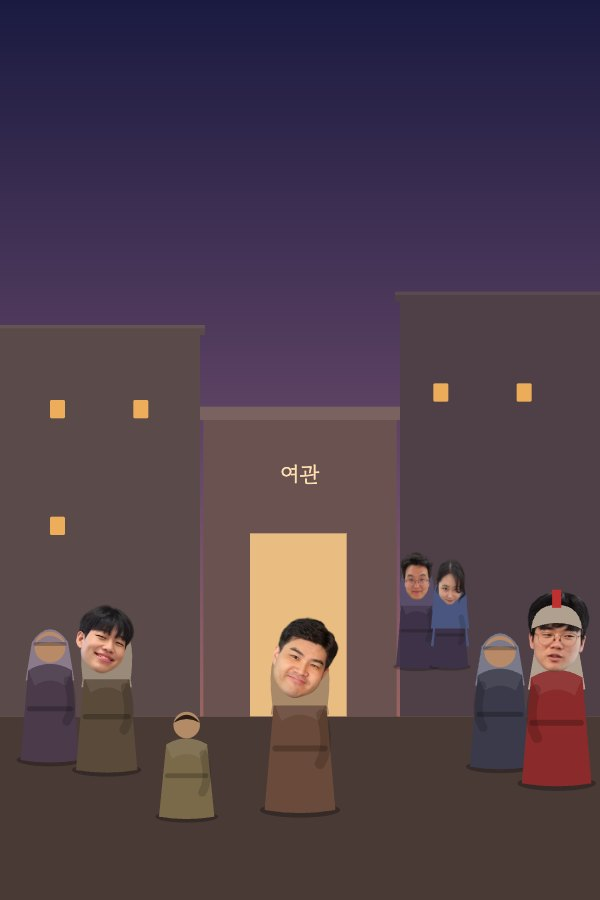
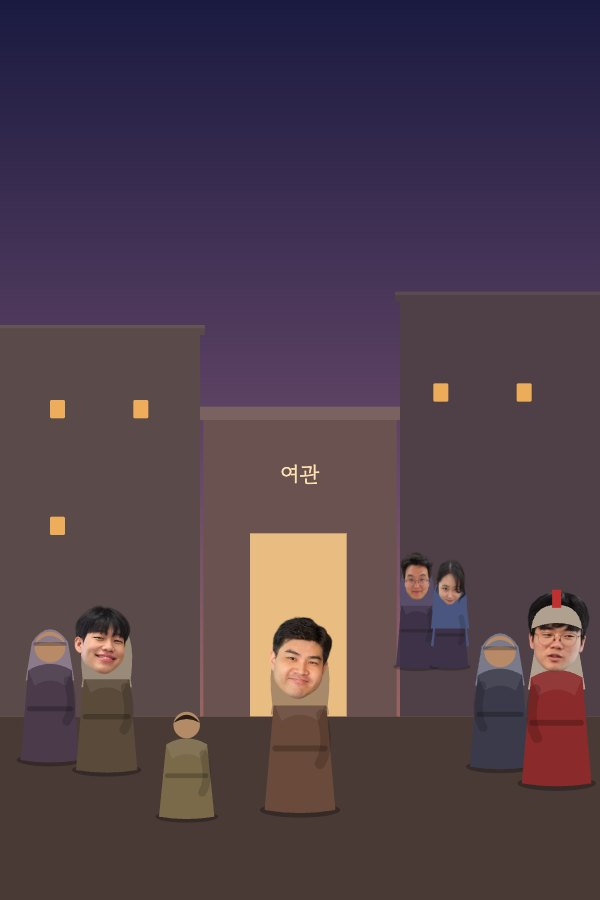
고등부: 김유진 선생님 가브리엘, 얼굴 방향·기울기 맞춤

Changed region(s): [[0.45, 0.6844, 0.57, 0.7778], [0.12, 0.6844, 0.24, 0.7467]]

diff --git a/story/cast.js b/story/cast.js
@@ -1,31 +1,32 @@
 /* 출연 선생님: 얼굴 사진(img/faces/tNN.webp)과 배역
+   gaze: 사진 속 얼굴이 보는 쪽(R 오른쪽, L 왼쪽), rot: 기운 고개를 바로 세우는 각도
    배역을 바꾸려면 아래 CAST에서 선생님 번호(t01~t24)만 바꾸면 됩니다.
    '이웃@2'처럼 @숫자를 붙이면 그 장(章)에서만 그 선생님이 나옵니다. */
 window.FACES = {
-  t01: { name: '성유정', w: 180, h: 246, cx: 103.2, cy: 157.9 },
-  t02: { name: '한주안', w: 154, h: 183, cx: 80.8, cy: 121.2 },
-  t03: { name: '김나연', w: 200, h: 240, cx: 63.6, cy: 144.5 },
-  t04: { name: '김승규', w: 156, h: 179, cx: 75.5, cy: 104.4 },
+  t01: { name: '성유정', w: 180, h: 246, cx: 103.2, cy: 157.9, gaze: 'R' },
+  t02: { name: '한주안', w: 154, h: 183, cx: 80.8, cy: 121.2, gaze: 'R', rot: -11 },
+  t03: { name: '김나연', w: 200, h: 240, cx: 63.6, cy: 144.5, gaze: 'L' },
+  t04: { name: '김승규', w: 156, h: 179, cx: 75.5, cy: 104.4, rot: -14 },
   t05: { name: '김유진', w: 139, h: 192, cx: 68.5, cy: 141.1 },
-  t06: { name: '김재연', w: 150, h: 187, cx: 92.8, cy: 125.0 },
-  t07: { name: '김진원', w: 171, h: 203, cx: 118.4, cy: 136.4 },
-  t08: { name: '김진호', w: 151, h: 186, cx: 63.0, cy: 125.4 },
-  t09: { name: '민다은', w: 198, h: 224, cx: 117.3, cy: 111.7 },
+  t06: { name: '김재연', w: 150, h: 187, cx: 92.8, cy: 125.0, gaze: 'R' },
+  t07: { name: '김진원', w: 171, h: 203, cx: 118.4, cy: 136.4, gaze: 'R', rot: -7 },
+  t08: { name: '김진호', w: 151, h: 186, cx: 63.0, cy: 125.4, rot: -13 },
+  t09: { name: '민다은', w: 198, h: 224, cx: 117.3, cy: 111.7, gaze: 'R' },
   t10: { name: '박예찬', w: 143, h: 194, cx: 74.8, cy: 150.0 },
   t11: { name: '박찬하', w: 133, h: 196, cx: 69.9, cy: 137.5 },
-  t12: { name: '안하영', w: 179, h: 181, cx: 106.7, cy: 105.2 },
+  t12: { name: '안하영', w: 179, h: 181, cx: 106.7, cy: 105.2, rot: -10 },
   t13: { name: '유성욱', w: 136, h: 194, cx: 64.2, cy: 143.4 },
   t14: { name: '윤현종', w: 140, h: 178, cx: 82.7, cy: 121.2 },
   t15: { name: '이경민', w: 138, h: 203, cx: 71.7, cy: 142.2 },
-  t16: { name: '이수영', w: 165, h: 186, cx: 130.9, cy: 108.9 },
+  t16: { name: '이수영', w: 165, h: 186, cx: 130.9, cy: 108.9, gaze: 'R', rot: 19 },
   t17: { name: '이승원', w: 140, h: 218, cx: 70.7, cy: 161.8 },
   t18: { name: '이정관', w: 129, h: 190, cx: 64.6, cy: 134.4 },
   t19: { name: '전관우', w: 124, h: 175, cx: 58.0, cy: 124.4 },
   t20: { name: '정신영', w: 140, h: 207, cx: 66.4, cy: 165.2 },
-  t21: { name: '조형준', w: 157, h: 179, cx: 59.4, cy: 106.3 },
+  t21: { name: '조형준', w: 157, h: 179, cx: 59.4, cy: 106.3, gaze: 'L' },
   t22: { name: '최승렬', w: 146, h: 190, cx: 68.1, cy: 131.5 },
-  t23: { name: '최정은', w: 145, h: 168, cx: 103.6, cy: 104.6 },
-  t24: { name: '황보예원', w: 209, h: 237, cx: 116.3, cy: 123.1 },
+  t23: { name: '최정은', w: 145, h: 168, cx: 103.6, cy: 104.6, gaze: 'R' },
+  t24: { name: '황보예원', w: 209, h: 237, cx: 116.3, cy: 123.1, gaze: 'R', rot: -7 },
 };
 // 배역 → 선생님. role은 출연진 화면에 보이는 이름
 window.CAST_LIST = [
@@ -35,9 +36,9 @@ window.CAST_LIST = [
   { key: '마리아', t: 't20', role: '마리아', note: '3장 · 나사렛의 처녀' },
   { key: '할아버지', t: 't17', role: '목자 할아버지', note: '4장 · 들판의 늙은 목자' },
   { key: '목자', t: 't04', role: '목자 아저씨', note: '4장 · 함께 밤을 지키는 목자' },
-  { key: '천사', t: 't23', role: '천사 가브리엘', note: '1·3장 · 사가랴와 마리아에게' },
+  { key: '천사', t: 't05', role: '천사 가브리엘', note: '1·3장 · 사가랴와 마리아에게' },
   { key: '천사@2', t: 't21', role: '꿈속의 천사', note: '2장 · 요셉의 꿈에' },
-  { key: '천사@4', t: 't05', role: '들판의 천사', note: '4장 · 목자들에게' },
+  { key: '천사@4', t: 't23', role: '들판의 천사', note: '4장 · 목자들에게' },
   { key: '제사장', t: 't06', role: '제사장', note: '1장 · 제비를 뽑는 제사장' },
   { key: '젊은 제사장', t: 't11', role: '젊은 제사장', note: '1장 · 처음 성전에 온 제사장' },
   { key: '꼬마', t: 't10', role: '동네 꼬마', note: '1장 · 성전이 궁금한 아이' },
@@ -57,4 +58,4 @@ window.CAST_LIST = [
 window.CAST = {};
 CAST_LIST.forEach(c => { CAST[c.key] = c.t; });
 // 들판의 천군(4장): 가운데 천사 말고 둘레 천사들
-window.HOST = ['t23', 't21', 't03', 't24'];
+window.HOST = ['t05', 't21', 't03', 't24'];
